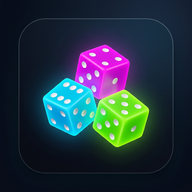
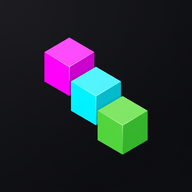
Updates

diff --git a/sw.js b/sw.js
@@ -1,1 +1,1 @@
-if(!self.define){let e,s={};const i=(i,r)=>(i=new URL(i+".js",r).href,s[i]||new Promise(s=>{if("document"in self){const e=document.createElement("script");e.src=i,e.onload=s,document.head.appendChild(e)}else e=i,importScripts(i),s()}).then(()=>{let e=s[i];if(!e)throw new Error(`Module ${i} didn’t register its module`);return e}));self.define=(r,a)=>{const n=e||("document"in self?document.currentScript.src:"")||location.href;if(s[n])return;let l={};const d=e=>i(e,n),o={module:{uri:n},exports:l,require:d};s[n]=Promise.all(r.map(e=>o[e]||d(e))).then(e=>(a(...e),l))}}define(["./workbox-9c191d2f"],function(e){"use strict";self.skipWaiting(),e.clientsClaim(),e.precacheAndRoute([{url:"registerSW.js",revision:"a16cccdf8e6363d3b8e1fbc27b9d3ea8"},{url:"index.html",revision:"e29ce30a0da5dbf313a1fc98cf8aefa6"},{url:"dice-box/ammo/ammo.wasm.wasm",revision:"0625d7886eeac1d9a7055fa1b0da7166"},{url:"assets/world.onscreen-ClHRPWct.js",revision:null},{url:"assets/world.offscreen-DE3Ga-d4.js",revision:null},{url:"assets/world.none-C9MwLaqb.js",revision:null},{url:"assets/index-C342rQ8v.css",revision:null},{url:"assets/index-BPNylVNu.js",revision:null},{url:"assets/Dice-DkvvBM9C.js",revision:null},{url:"assets/ammo/ammo.wasm.wasm",revision:null},{url:"favicon.png",revision:"b469ffed4e227c613af91b377200dc7c"},{url:"pwa-192x192.png",revision:"4f617d9c1bdbd2ed0164177cbc51627b"},{url:"pwa-512x512.png",revision:"e21f23826df4f50962d5e8983fd057b5"},{url:"assets/ammo/ammo.wasm.wasm",revision:"0625d7886eeac1d9a7055fa1b0da7166"},{url:"assets/themes/default/default.json",revision:"8043112672e592bdda47207ff0ab5c56"},{url:"assets/themes/default/diffuse-dark.png",revision:"c720ce7659f24ae3a24cd959c4b2d629"},{url:"assets/themes/default/diffuse-light.png",revision:"0f78e0c83c662e3b0cb31cd98ade0e18"},{url:"assets/themes/default/normal.png",revision:"99743f51de6907326db1d2ab1b4daa92"},{url:"assets/themes/default/specular.jpg",revision:"e88c327a59247a380c4090d7cc6685bc"},{url:"assets/themes/default/theme.config.json",revision:"1312299491f34855631e88143791d96e"},{url:"manifest.webmanifest",revision:"a02c52502d0ff1cc1887af6ff0494852"}],{}),e.cleanupOutdatedCaches(),e.registerRoute(new e.NavigationRoute(e.createHandlerBoundToURL("index.html")))});
+if(!self.define){let e,s={};const a=(a,i)=>(a=new URL(a+".js",i).href,s[a]||new Promise(s=>{if("document"in self){const e=document.createElement("script");e.src=a,e.onload=s,document.head.appendChild(e)}else e=a,importScripts(a),s()}).then(()=>{let e=s[a];if(!e)throw new Error(`Module ${a} didn’t register its module`);return e}));self.define=(i,r)=>{const n=e||("document"in self?document.currentScript.src:"")||location.href;if(s[n])return;let l={};const o=e=>a(e,n),t={module:{uri:n},exports:l,require:o};s[n]=Promise.all(i.map(e=>t[e]||o(e))).then(e=>(r(...e),l))}}define(["./workbox-9c191d2f"],function(e){"use strict";self.skipWaiting(),e.clientsClaim(),e.precacheAndRoute([{url:"registerSW.js",revision:"a16cccdf8e6363d3b8e1fbc27b9d3ea8"},{url:"index.html",revision:"e29ce30a0da5dbf313a1fc98cf8aefa6"},{url:"dice-box/ammo/ammo.wasm.wasm",revision:"0625d7886eeac1d9a7055fa1b0da7166"},{url:"assets/world.onscreen-ClHRPWct.js",revision:null},{url:"assets/world.offscreen-DE3Ga-d4.js",revision:null},{url:"assets/world.none-C9MwLaqb.js",revision:null},{url:"assets/index-C342rQ8v.css",revision:null},{url:"assets/index-BPNylVNu.js",revision:null},{url:"assets/Dice-DkvvBM9C.js",revision:null},{url:"assets/ammo/ammo.wasm.wasm",revision:null},{url:"favicon.png",revision:"9ea15f549e33cb696136c93ec87e8a41"},{url:"pwa-192x192.png",revision:"b3a7d2a442a7f046d591b338d0b86b25"},{url:"pwa-512x512.png",revision:"7b2273cf17919d0ac9143c7ab38d0317"},{url:"assets/ammo/ammo.wasm.wasm",revision:"0625d7886eeac1d9a7055fa1b0da7166"},{url:"assets/themes/default/default.json",revision:"8043112672e592bdda47207ff0ab5c56"},{url:"assets/themes/default/diffuse-dark.png",revision:"c720ce7659f24ae3a24cd959c4b2d629"},{url:"assets/themes/default/diffuse-light.png",revision:"0f78e0c83c662e3b0cb31cd98ade0e18"},{url:"assets/themes/default/normal.png",revision:"99743f51de6907326db1d2ab1b4daa92"},{url:"assets/themes/default/specular.jpg",revision:"e88c327a59247a380c4090d7cc6685bc"},{url:"assets/themes/default/theme.config.json",revision:"1312299491f34855631e88143791d96e"},{url:"manifest.webmanifest",revision:"a02c52502d0ff1cc1887af6ff0494852"}],{}),e.cleanupOutdatedCaches(),e.registerRoute(new e.NavigationRoute(e.createHandlerBoundToURL("index.html")))});
